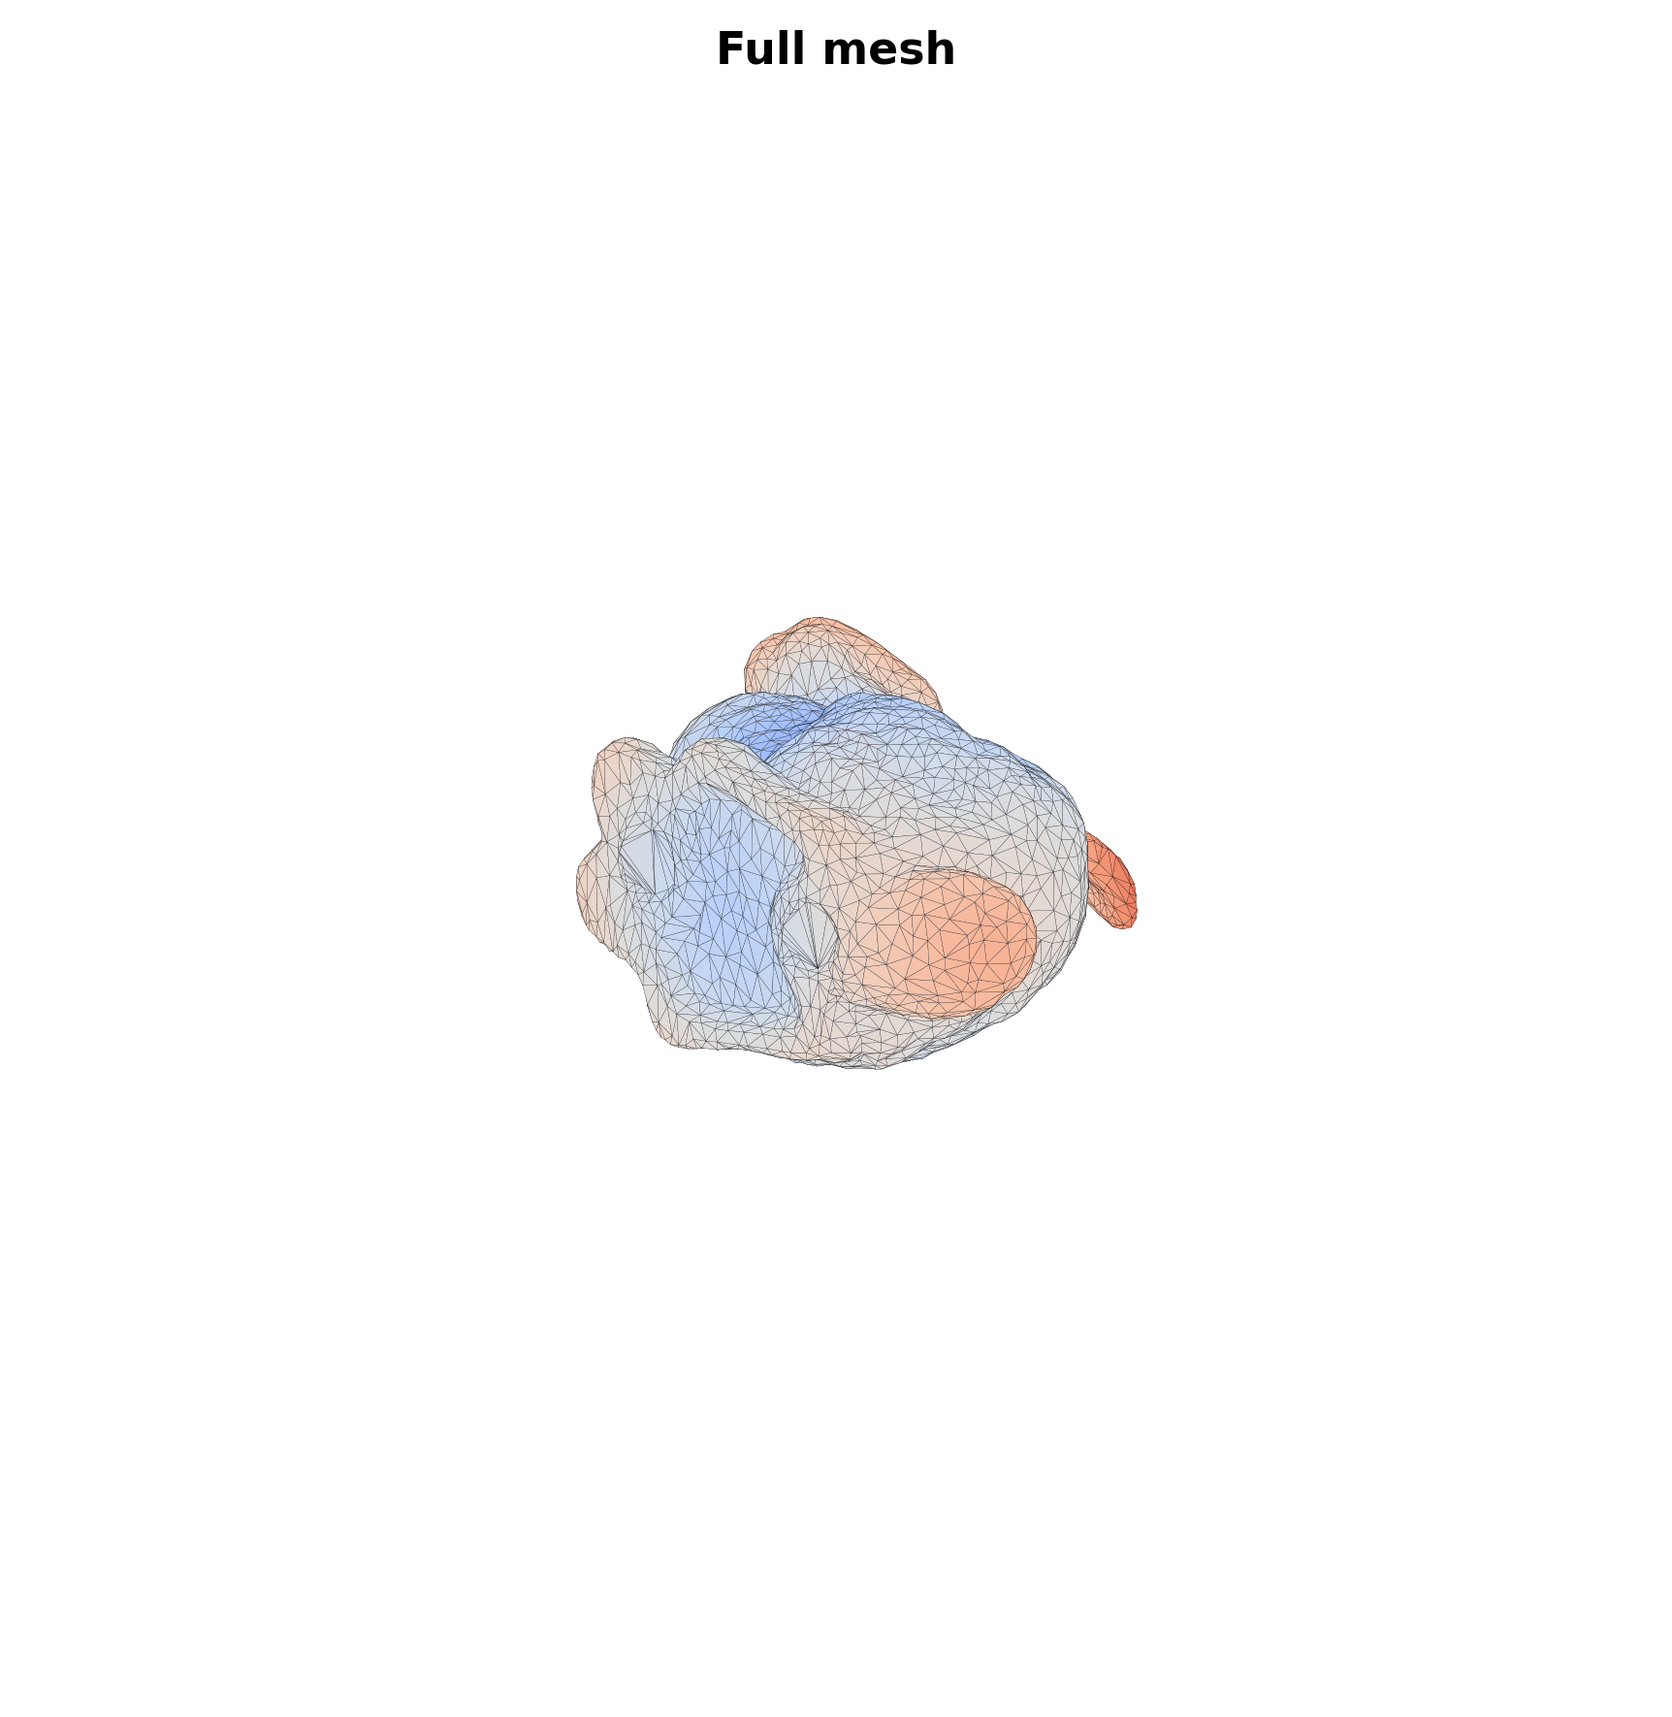
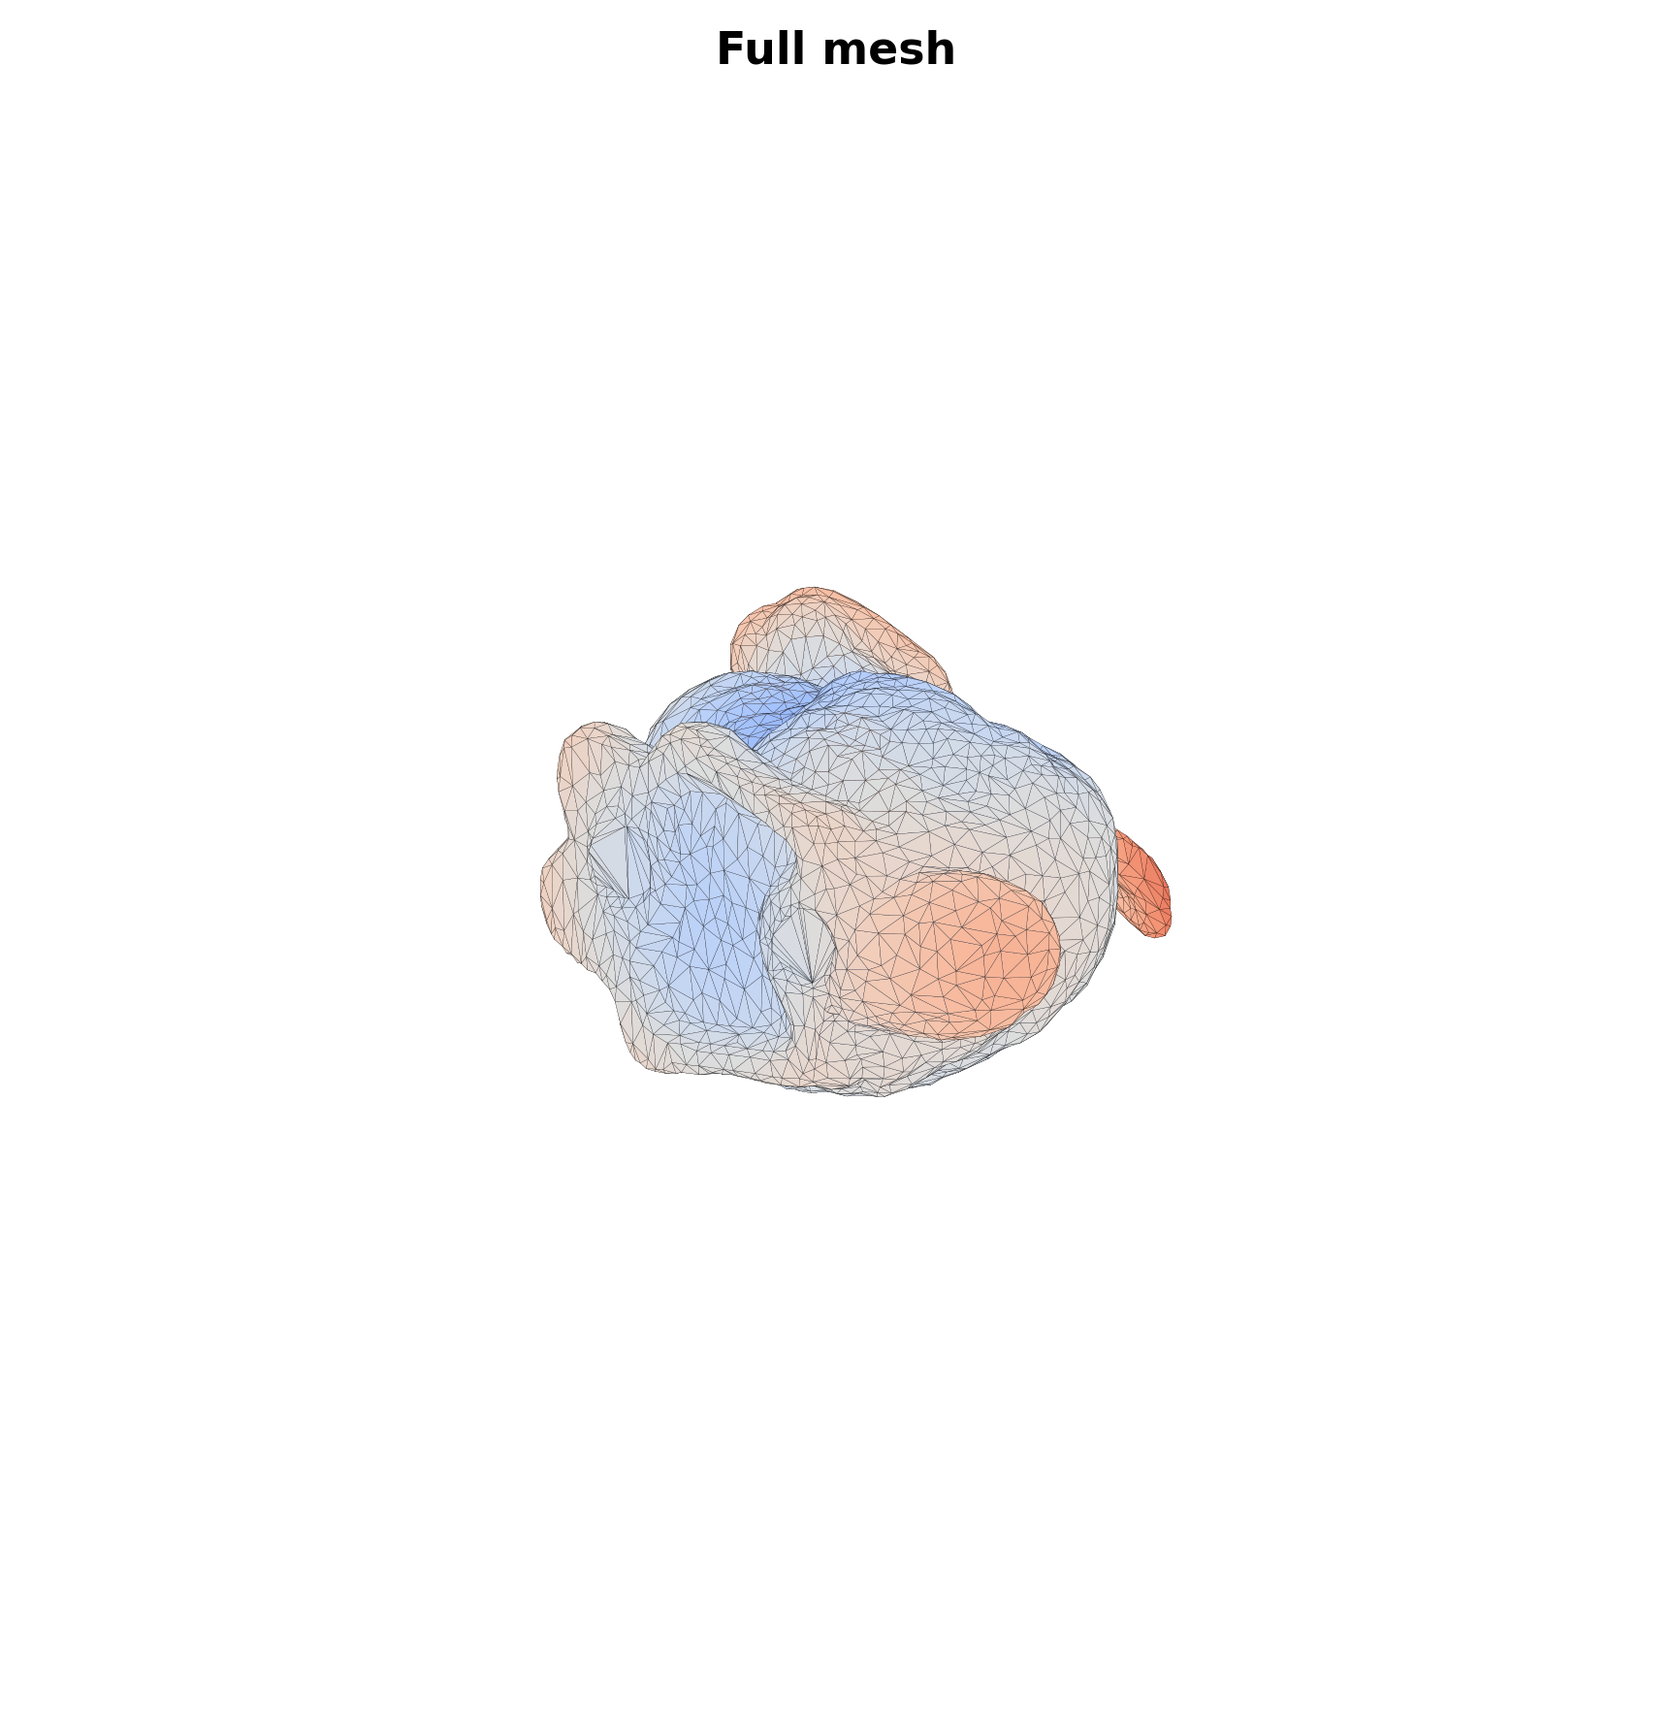
Fix rendering: use regularized SH least-squares on real SH basis
Replaced Laplacian eigenbasis with proper spherical harmonics.
Uses Tikhonov-regularized least-squares to fit real SH coefficients
for each Cartesian coordinate (x,y,z). Regularization penalty
proportional to l(l+1) prevents high-l blowup from non-star-shape
aliasing while preserving low-l accuracy.

Results: monotonically decreasing RMSE for both cow and bunny,
smooth visual progression from sphere to full mesh at all l_max.

Changed region(s): [[0.3074, 0.3418, 0.7071, 0.6525]]

diff --git a/multipole-cow/code/render_sphere_to_cow.py b/multipole-cow/code/render_sphere_to_cow.py
@@ -1,13 +1,11 @@
 """
 Render the gradual transition from a sphere to any mesh
-at increasing spectral resolution using the mesh Laplacian eigenbasis.
+at increasing spherical harmonic order l_max.
 
-This is the mesh analog of spherical harmonic expansion: the Laplacian
-eigenvectors on the mesh play the role of Y_l^m, and truncating at
-increasing numbers of eigenvectors gives progressively finer detail.
-
-The eigenvalues lambda_k are analogous to l(l+1), so we label the
-reconstructions by the equivalent l_max = sqrt(lambda_k).
+Approach: Project each vertex radially onto S^2 from the center of mass,
+then fit SH coefficients for each Cartesian coordinate (x,y,z) using
+regularized least-squares. The regularization prevents high-ℓ blowup
+caused by the non-injective projection of non-star-shaped meshes.
 
 Usage:
     python render_sphere_to_cow.py cow
@@ -18,8 +16,9 @@ import sys
 import os
 import argparse
 import numpy as np
+from scipy.special import sph_harm_y
 from scipy import sparse
-from scipy.sparse.linalg import eigsh
+from scipy.sparse.linalg import lsqr
 import matplotlib
 matplotlib.use('Agg')
 import matplotlib.pyplot as plt
@@ -29,87 +28,107 @@ sys.path.insert(0, os.path.dirname(__file__))
 from mesh_io import load_off, compute_center_of_mass
 
 
-def cotangent_laplacian(V, F):
-    """Compute the cotangent Laplacian matrix L and mass matrix M.
+def cartesian_to_spherical(xyz):
+    """Convert Cartesian to spherical. theta: polar [0,pi], phi: azimuthal [0,2pi]."""
+    r = np.linalg.norm(xyz, axis=1)
+    r_safe = np.maximum(r, 1e-15)
+    theta = np.arccos(np.clip(xyz[:, 2] / r_safe, -1, 1))
+    phi = np.arctan2(xyz[:, 1], xyz[:, 0]) % (2 * np.pi)
+    return r, theta, phi
 
-    L is the (N x N) cotangent-weight Laplacian (negative semi-definite).
-    M is the (N x N) diagonal lumped mass matrix (vertex areas).
 
-    Returns: L (sparse), M (sparse)
+def build_sh_matrix(theta, phi, l_max):
+    """Build the SH basis matrix Y[i, j] = Y_{l_j}^{m_j}(theta_i, phi_i).
+
+    Returns: Y_real (N, n_coeffs) real matrix (stacking real and imag parts),
+             coeff_index list of (l, m).
     """
-    n = len(V)
-    I, J, Wij = [], [], []
+    coeff_index = []
+    for ell in range(l_max + 1):
+        for m in range(-ell, ell + 1):
+            coeff_index.append((ell, m))
 
-    for face in F:
-        for k in range(3):
-            i = face[k]
-            j = face[(k + 1) % 3]
-            opp = face[(k + 2) % 3]
+    n_verts = len(theta)
+    n_coeffs = len(coeff_index)
 
-            e1 = V[i] - V[opp]
-            e2 = V[j] - V[opp]
-            cos_angle = np.dot(e1, e2) / (np.linalg.norm(e1) * np.linalg.norm(e2) + 1e-30)
-            cos_angle = np.clip(cos_angle, -1, 1)
-            sin_angle = np.sqrt(1 - cos_angle**2) + 1e-30
-            cot = cos_angle / sin_angle
-            w = 0.5 * cot
+    # Build complex SH matrix, then convert to real system
+    # For real-valued targets (x,y,z coords), we need:
+    #   x_i = sum_j Re(c_j * Y_j(theta_i, phi_i))
+    # This is a real linear system if we split c_j into real and imag parts.
+    # But simpler: use real spherical harmonics directly.
+    # Y_lm_real = Re(Y_lm) for m >= 0, Im(Y_l|m|) for m < 0 (with normalization)
 
-            I.append(i); J.append(j); Wij.append(w)
-            I.append(j); J.append(i); Wij.append(w)
+    # Actually, use the real SH basis:
+    #   S_{l,0} = Y_l^0 (real)
+    #   S_{l,m,c} = (Y_l^m + (-1)^m Y_l^{-m}) / sqrt(2) for m > 0  (cos-like)
+    #   S_{l,m,s} = (Y_l^m - (-1)^m Y_l^{-m}) / (i*sqrt(2)) for m > 0  (sin-like)
+    real_index = []  # list of (l, m, 'c'/'s'/'0')
+    for ell in range(l_max + 1):
+        real_index.append((ell, 0, '0'))
+        for m in range(1, ell + 1):
+            real_index.append((ell, m, 'c'))
+            real_index.append((ell, m, 's'))
 
-    L = sparse.coo_matrix((Wij, (I, J)), shape=(n, n)).tocsc()
-    # Diagonal: L_ii = -sum_j L_ij
-    L = L - sparse.diags(np.array(L.sum(axis=1)).flatten())
+    n_real = len(real_index)
+    Y_real = np.zeros((n_verts, n_real))
 
-    # Lumped mass matrix: 1/3 of incident face areas
-    v0 = V[F[:, 0]]; v1 = V[F[:, 1]]; v2 = V[F[:, 2]]
-    face_areas = 0.5 * np.linalg.norm(np.cross(v1 - v0, v2 - v0), axis=1)
-    vertex_mass = np.zeros(n)
+    for j, (ell, m, kind) in enumerate(real_index):
+        if kind == '0':
+            Y_real[:, j] = np.real(sph_harm_y(ell, 0, theta, phi))
+        elif kind == 'c':
+            Ylm = sph_harm_y(ell, m, theta, phi)
+            Ylnm = sph_harm_y(ell, -m, theta, phi)
+            Y_real[:, j] = np.real((Ylm + (-1)**m * Ylnm) / np.sqrt(2))
+        elif kind == 's':
+            Ylm = sph_harm_y(ell, m, theta, phi)
+            Ylnm = sph_harm_y(ell, -m, theta, phi)
+            Y_real[:, j] = np.real((Ylm - (-1)**m * Ylnm) / (1j * np.sqrt(2)))
+
+    return Y_real, real_index
+
+
+def fit_sh_coefficients(Y_real, V_centered, real_index, l_max, alpha=1e-4):
+    """Fit SH coefficients via Tikhonov-regularized least squares.
+
+    Solves: min ||Y @ c - v||^2 + alpha * sum_l l(l+1) * |c_lm|^2
+    for each coordinate independently.
+
+    The regularization penalizes high-ℓ coefficients proportionally to l(l+1),
+    preventing blowup from aliasing while preserving low-ℓ accuracy.
+
+    Returns: coeffs (n_real, 3) array of real SH coefficients.
+    """
+    n_real = Y_real.shape[1]
+
+    # Build regularization weights: penalty proportional to l(l+1)
+    reg_weights = np.zeros(n_real)
+    for j, (ell, m, kind) in enumerate(real_index):
+        reg_weights[j] = alpha * ell * (ell + 1)
+
+    # Augmented system: [Y; sqrt(reg) * I] @ c = [v; 0]
+    D = sparse.diags(np.sqrt(reg_weights))
+
+    coeffs = np.zeros((n_real, 3))
     for k in range(3):
-        np.add.at(vertex_mass, F[:, k], face_areas / 3.0)
-    M = sparse.diags(vertex_mass)
+        # Use scipy lsqr for efficiency
+        result = lsqr(
+            sparse.vstack([sparse.csc_matrix(Y_real), D]),
+            np.concatenate([V_centered[:, k], np.zeros(n_real)]),
+        )
+        coeffs[:, k] = result[0]
 
-    return L, M
-
-
-def spectral_decomposition(V_centered, L, M, n_modes):
-    """Compute the spectral decomposition of vertex coordinates
-    using the mesh Laplacian eigenbasis.
-
-    Solves the generalized eigenvalue problem: L @ phi = -lambda * M @ phi
-
-    Returns:
-        eigenvalues: (n_modes,) sorted ascending (smallest first)
-        eigenvectors: (N, n_modes) orthonormal w.r.t. M
-        coefficients: (n_modes, 3) projection of V onto each eigenvector
-    """
-    # Solve for the smallest eigenvalues of -L (since L is negative semi-definite)
-    # eigsh finds largest eigenvalues of M^-1 @ (-L), equivalent to smallest of L
-    eigenvalues, eigenvectors = eigsh(-L, k=n_modes, M=M, sigma=0, which='LM')
-
-    # Sort by eigenvalue (ascending)
-    idx = np.argsort(eigenvalues)
-    eigenvalues = eigenvalues[idx]
-    eigenvectors = eigenvectors[:, idx]
-
-    # Project coordinates onto eigenvectors: c_k = phi_k^T @ M @ V
-    M_diag = np.array(M.diagonal())
-    coefficients = np.zeros((n_modes, 3))
-    for k in range(n_modes):
-        for dim in range(3):
-            coefficients[k, dim] = np.sum(eigenvectors[:, k] * M_diag * V_centered[:, dim])
-
-    return eigenvalues, eigenvectors, coefficients
+    return coeffs
 
 
-def reconstruct_at_n_modes(eigenvectors, coefficients, n):
-    """Reconstruct vertex positions using the first n eigenmodes."""
-    return eigenvectors[:, :n] @ coefficients[:n, :]
+def reconstruct_at_lmax(Y_real, coeffs, real_index, l_max_cut):
+    """Reconstruct vertex positions using only coefficients up to l_max_cut."""
+    mask = np.array([ell <= l_max_cut for ell, m, kind in real_index])
+    return Y_real[:, mask] @ coeffs[mask, :]
 
 
 def render_mesh(ax, V, F, title, elev=25, azim=-60,
                 global_range=None, global_rmin=None, global_rmax=None):
-    """Render a triangulated surface on a 3D axis with coolwarm coloring."""
+    """Render a triangulated surface on a 3D axis."""
     r = np.linalg.norm(V, axis=1)
     face_r = (r[F[:, 0]] + r[F[:, 1]] + r[F[:, 2]]) / 3.0
 
@@ -117,118 +136,98 @@ def render_mesh(ax, V, F, title, elev=25, azim=-60,
     vmax = global_rmax if global_rmax is not None else r.max()
     if vmax - vmin < 1e-10:
         vmax = vmin + 1.0
-    cmap = plt.cm.coolwarm
-    norm = plt.Normalize(vmin=vmin, vmax=vmax)
-    face_colors = cmap(norm(face_r))
+    face_colors = plt.cm.coolwarm(plt.Normalize(vmin=vmin, vmax=vmax)(face_r))
 
-    triangles = V[F]
-    poly = Poly3DCollection(triangles, facecolors=face_colors,
+    poly = Poly3DCollection(V[F], facecolors=face_colors,
                             edgecolors='k', linewidths=0.05, alpha=1.0)
     ax.add_collection3d(poly)
 
-    max_range = global_range if global_range is not None else np.abs(V).max() * 1.1
-    ax.set_xlim(-max_range, max_range)
-    ax.set_ylim(-max_range, max_range)
-    ax.set_zlim(-max_range, max_range)
-
+    mr = global_range if global_range is not None else np.abs(V).max() * 1.1
+    ax.set_xlim(-mr, mr); ax.set_ylim(-mr, mr); ax.set_zlim(-mr, mr)
     ax.set_title(title, fontsize=11, fontweight='bold', pad=2)
     ax.set_axis_off()
     ax.view_init(elev=elev, azim=azim)
     ax.set_box_aspect([1, 1, 1])
 
 
-def render_transition(mesh_path, mesh_name, results_dir, n_modes_max=200,
-                      mode_counts=None, elev=25, azim=-60):
-    """Render sphere-to-mesh transition using mesh Laplacian spectral decomposition."""
+def render_transition(mesh_path, mesh_name, results_dir, l_max_full=20,
+                      l_max_values=None, elev=25, azim=-60):
+    """Render sphere-to-mesh transition using regularized SH fitting."""
     os.makedirs(results_dir, exist_ok=True)
+    if l_max_values is None:
+        l_max_values = [0, 1, 2, 4, 8, 16]
 
-    if mode_counts is None:
-        # Number of eigenmodes for each panel (1=constant, 4≈dipole, 9≈quadrupole, ...)
-        mode_counts = [1, 4, 9, 25, 50, 100]
-
-    # Load and center mesh
     V, F = load_off(mesh_path)
     com = compute_center_of_mass(V, F)
     V_centered = V - com
-    n_verts = len(V)
+    print(f"Mesh '{mesh_name}': {len(V)} vertices, {len(F)} faces")
 
-    print(f"Mesh '{mesh_name}': {n_verts} vertices, {len(F)} faces")
+    _, theta, phi = cartesian_to_spherical(V_centered)
 
-    # Compute cotangent Laplacian
-    print(f"  Computing cotangent Laplacian...")
-    L, M = cotangent_laplacian(V, F)
+    # Build real SH basis matrix
+    print(f"  Building SH basis matrix up to l_max = {l_max_full}...")
+    Y_real, real_index = build_sh_matrix(theta, phi, l_max_full)
+    n_coeffs = Y_real.shape[1]
+    print(f"  Basis size: {n_coeffs} real SH functions")
 
-    # Clamp n_modes to available
-    n_modes_max = min(n_modes_max, n_verts - 2)
-    mode_counts = [min(n, n_modes_max) for n in mode_counts]
+    # Fit coefficients with regularization
+    print(f"  Fitting regularized SH coefficients...")
+    coeffs = fit_sh_coefficients(Y_real, V_centered, real_index, l_max_full, alpha=1e-4)
 
-    # Spectral decomposition
-    print(f"  Computing {n_modes_max} eigenmodes...")
-    eigenvalues, eigenvectors, coefficients = spectral_decomposition(
-        V_centered, L, M, n_modes_max)
-    print(f"  Eigenvalue range: [{eigenvalues[0]:.4f}, {eigenvalues[-1]:.2f}]")
-
-    # Equivalent ℓ for labeling: lambda_k ≈ l(l+1), so l ≈ sqrt(lambda_k)
-    # For the first modes: mode 1 is constant (l=0), modes 2-4 are l=1, etc.
-
-    # Reconstruct at each mode count
-    labels = [f"{n} modes" for n in mode_counts] + ["Full mesh"]
+    # Reconstruct at each l_max
+    labels = [f"$\\ell_{{\\max}} = {l}$" for l in l_max_values] + ["Full mesh"]
     reconstructions = []
-    for n in mode_counts:
-        V_recon = reconstruct_at_n_modes(eigenvectors, coefficients, n)
+    for lm in l_max_values:
+        V_recon = reconstruct_at_lmax(Y_real, coeffs, real_index, lm)
         rmse = np.sqrt(np.mean((V_recon - V_centered)**2))
         reconstructions.append(V_recon)
-        print(f"    {n:4d} modes: RMSE = {rmse:.6f}")
+        print(f"    l_max={lm:3d}: RMSE = {rmse:.6f}")
     reconstructions.append(V_centered)
 
     # Global bounds
     global_range = max(np.abs(Vr).max() for Vr in reconstructions) * 1.1
-    all_radii = [np.linalg.norm(Vr, axis=1) for Vr in reconstructions]
-    global_rmin = min(rad.min() for rad in all_radii)
-    global_rmax = max(rad.max() for rad in all_radii)
+    all_r = [np.linalg.norm(Vr, axis=1) for Vr in reconstructions]
+    global_rmin = min(r.min() for r in all_r)
+    global_rmax = max(r.max() for r in all_r)
 
-    render_kw = dict(elev=elev, azim=azim, global_range=global_range,
-                     global_rmin=global_rmin, global_rmax=global_rmax)
+    kw = dict(elev=elev, azim=azim, global_range=global_range,
+              global_rmin=global_rmin, global_rmax=global_rmax)
 
-    # --- Multi-panel composite ---
+    # Multi-panel composite
     n_panels = len(reconstructions)
     fig = plt.figure(figsize=(4 * n_panels, 4.5))
-    for i, (V_rec, label) in enumerate(zip(reconstructions, labels)):
+    for i, (Vr, label) in enumerate(zip(reconstructions, labels)):
         ax = fig.add_subplot(1, n_panels, i + 1, projection='3d')
-        render_mesh(ax, V_rec, F, label, **render_kw)
-
-    title = f"Sphere-to-{mesh_name.capitalize()} via Laplacian Spectral Decomposition"
-    fig.suptitle(title, fontsize=16, fontweight='bold', y=0.98)
+        render_mesh(ax, Vr, F, label, **kw)
+    fig.suptitle(f"Sphere-to-{mesh_name.capitalize()} via Spherical Harmonic Expansion",
+                 fontsize=16, fontweight='bold', y=0.98)
     plt.tight_layout(rect=[0, 0, 1, 0.93])
-    out_path = os.path.join(results_dir, f'sphere_to_{mesh_name}_transition.png')
-    fig.savefig(out_path, dpi=300, bbox_inches='tight', facecolor='white')
+    path = os.path.join(results_dir, f'sphere_to_{mesh_name}_transition.png')
+    fig.savefig(path, dpi=300, bbox_inches='tight', facecolor='white')
     plt.close(fig)
-    print(f"  Saved: {out_path}")
+    print(f"  Saved: {path}")
 
-    # --- Individual renders ---
-    for i, (V_rec, label) in enumerate(zip(reconstructions, labels)):
+    # Individual renders
+    for i, (Vr, label) in enumerate(zip(reconstructions, labels)):
         fig = plt.figure(figsize=(6, 6))
         ax = fig.add_subplot(111, projection='3d')
-        render_mesh(ax, V_rec, F, label, **render_kw)
+        render_mesh(ax, Vr, F, label, **kw)
         plt.tight_layout()
-        if i < len(mode_counts):
-            fname = f'{mesh_name}_modes_{mode_counts[i]:04d}.png'
-        else:
-            fname = f'{mesh_name}_lmax_full.png'
-        out_path = os.path.join(results_dir, fname)
-        fig.savefig(out_path, dpi=300, bbox_inches='tight', facecolor='white')
+        fname = f'{mesh_name}_lmax_{l_max_values[i]:03d}.png' if i < len(l_max_values) else f'{mesh_name}_lmax_full.png'
+        path = os.path.join(results_dir, fname)
+        fig.savefig(path, dpi=300, bbox_inches='tight', facecolor='white')
         plt.close(fig)
-        print(f"  Saved: {out_path}")
+        print(f"  Saved: {path}")
 
     print(f"Done rendering {mesh_name}!")
 
 
 def main():
-    parser = argparse.ArgumentParser(description="Render sphere-to-mesh spectral transition")
+    parser = argparse.ArgumentParser(description="Render sphere-to-mesh SH transition")
     parser.add_argument('mesh', nargs='?', default='cow',
                         help='Mesh name (cow, bunny) or path to .off file')
-    parser.add_argument('--modes', type=int, default=200,
-                        help='Maximum number of eigenmodes (default: 200)')
+    parser.add_argument('--lmax', type=int, default=20,
+                        help='Maximum SH order (default: 20)')
     parser.add_argument('--elev', type=float, default=25, help='Elevation angle')
     parser.add_argument('--azim', type=float, default=-60, help='Azimuth angle')
     args = parser.parse_args()
@@ -244,11 +243,10 @@ def main():
         mesh_name = args.mesh.lower()
         mesh_path = os.path.join(data_dir, f'{mesh_name}.off')
         if not os.path.isfile(mesh_path):
-            print(f"Error: mesh file not found: {mesh_path}")
-            sys.exit(1)
+            print(f"Error: not found: {mesh_path}"); sys.exit(1)
 
     render_transition(mesh_path, mesh_name, results_dir,
-                      n_modes_max=args.modes, elev=args.elev, azim=args.azim)
+                      l_max_full=args.lmax, elev=args.elev, azim=args.azim)
 
 
 if __name__ == '__main__':
